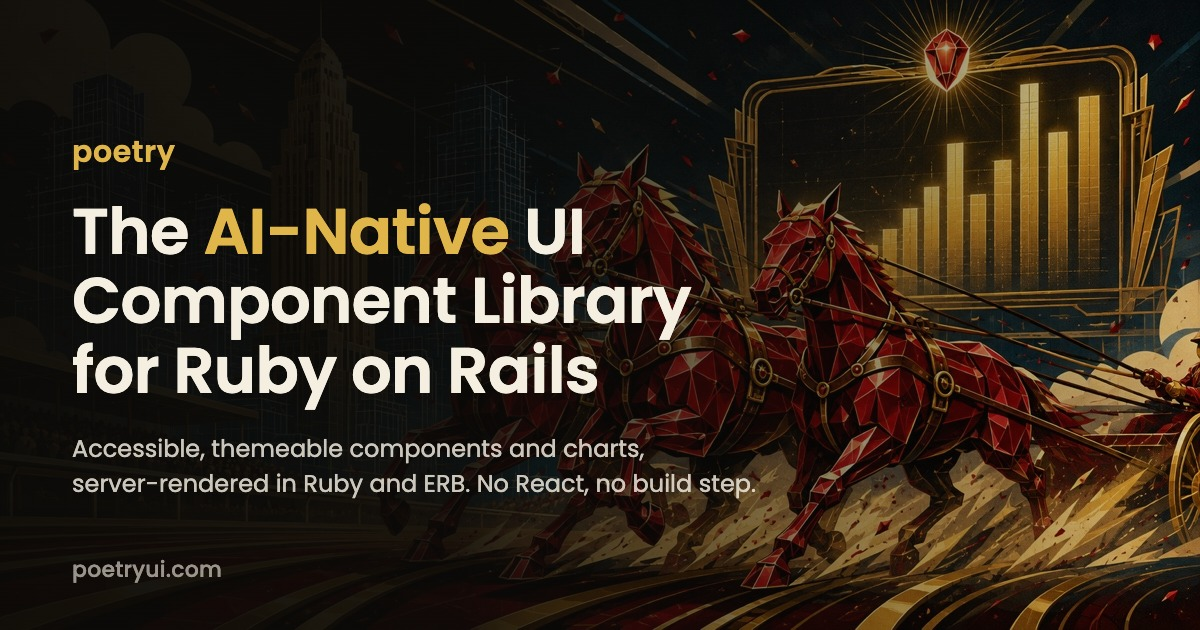
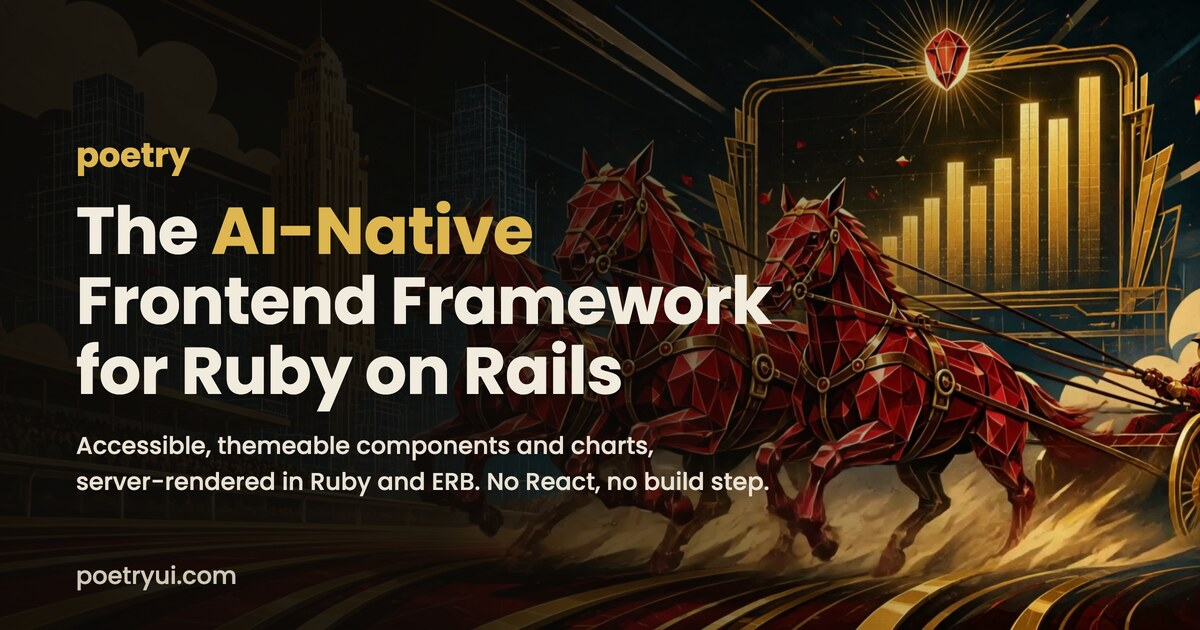
Site: the social card says frontend framework, with its HTML source beside it

diff --git a/site/script/og/card.html b/site/script/og/card.html
@@ -1,0 +1,33 @@
+<!doctype html>
+<html>
+<head>
+<meta charset="utf-8">
+<link href="https://fonts.googleapis.com/css2?family=Poppins:wght@500;600;700&display=swap" rel="stylesheet">
+<style>
+  html, body { margin: 0; width: 1200px; height: 630px; overflow: hidden; background: #0b0a08; }
+  .card {
+    position: relative; width: 1200px; height: 630px;
+    background: url("../../app/assets/images/landing-hero.jpg") center / cover no-repeat;
+    font-family: Poppins, "Helvetica Neue", Arial, sans-serif; color: #F1EBDE;
+  }
+  .shade {
+    position: absolute; inset: 0;
+    background: linear-gradient(90deg, rgba(12,10,7,.94) 0%, rgba(12,10,7,.90) 36%, rgba(12,10,7,.55) 58%, rgba(12,10,7,.12) 82%, rgba(12,10,7,0) 100%);
+  }
+  .brand { position: absolute; left: 76px; top: 130px; font-weight: 700; font-size: 34px; letter-spacing: -.3px; color: #DDB650; }
+  h1 { position: absolute; left: 76px; top: 196px; margin: 0; font-weight: 700; font-size: 66px; line-height: 1.06; letter-spacing: -.8px; }
+  h1 em { font-style: normal; color: #DDB650; }
+  p { position: absolute; left: 76px; top: 428px; margin: 0; font-weight: 500; font-size: 24px; line-height: 1.5; color: #E9E2D4; }
+  .site { position: absolute; left: 76px; top: 558px; font-weight: 500; font-size: 24px; color: #CFC7B5; }
+</style>
+</head>
+<body>
+  <div class="card">
+    <div class="shade"></div>
+    <div class="brand">poetry</div>
+    <h1>The <em>AI-Native</em><br>Frontend Framework<br>for Ruby on Rails</h1>
+    <p>Accessible, themeable components and charts,<br>server-rendered in Ruby and ERB. No React, no build step.</p>
+    <div class="site">poetryui.com</div>
+  </div>
+</body>
+</html>

diff --git a/site/script/og/README.md b/site/script/og/README.md
@@ -1,0 +1,18 @@
+# The social card
+
+`card.html` is the source of `app/assets/images/landing-og.jpg`: the hero
+artwork with the headline card over it. Edit the text here, then render it
+with headless Chrome at twice the size and downsample:
+
+```sh
+cd site/script/og
+"/Applications/Google Chrome.app/Contents/MacOS/Google Chrome" \
+  --headless=new --disable-gpu --hide-scrollbars \
+  --window-size=1200,630 --force-device-scale-factor=2 --virtual-time-budget=8000 \
+  --screenshot=card-2x.png "file://$PWD/card.html"
+magick card-2x.png -resize 1200x630 -strip -quality 88 ../../app/assets/images/landing-og.jpg
+rm card-2x.png
+```
+
+The fonts load from Google Fonts, so the render needs the network; the
+virtual time budget gives them time to arrive before the shot.
